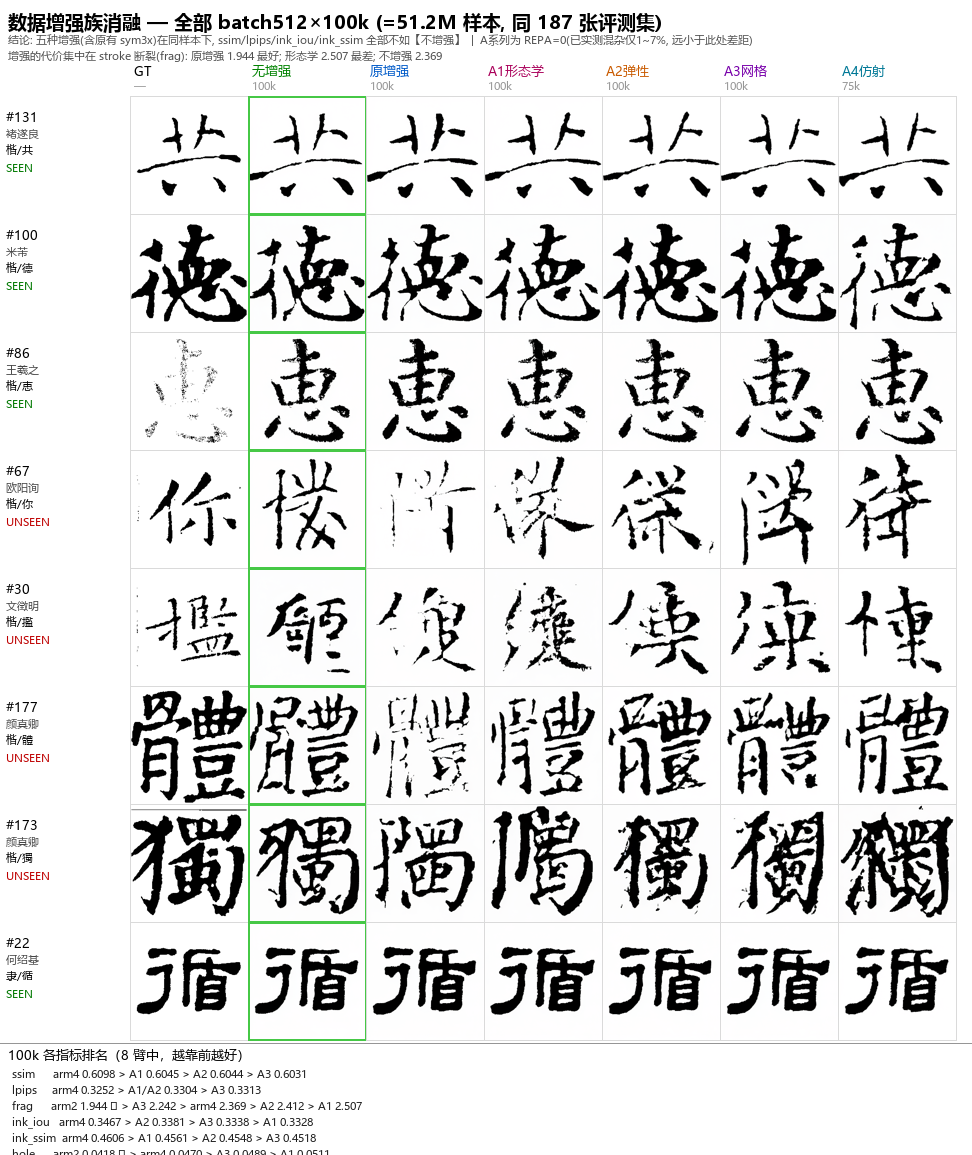
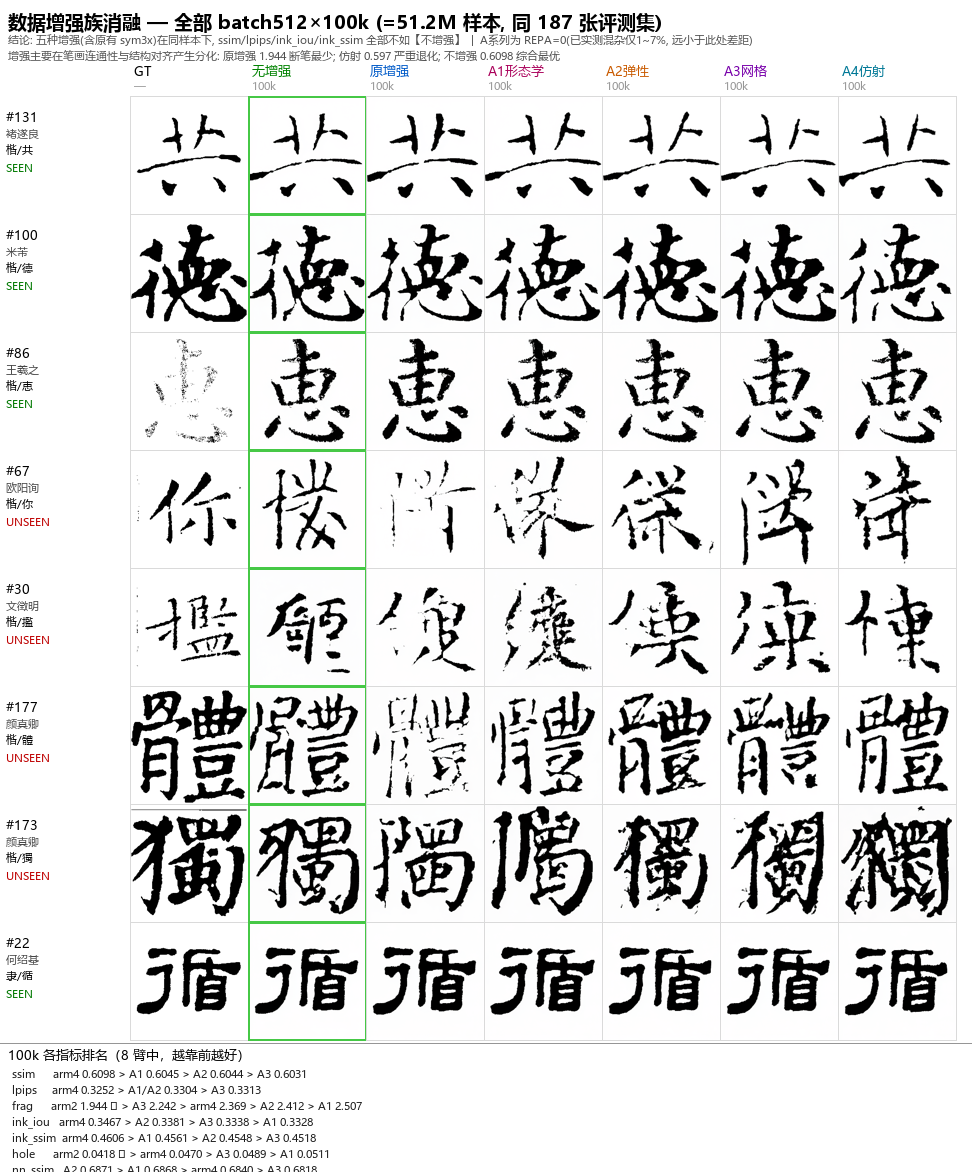
A4 100k 终值入库 + 视觉海报更新(7臂全100k) + 最终图拉回归档
1. A4 affine (仿射) 100k 训练完成，指标入库:
   ssim=0.5970, lpips=0.3371, frag=2.4300, ink_iou=0.3187, ink_ssim=0.4433, nn=0.6666, skel_iou=0.0214
   全场垫底，严重破坏书法重心与结构先验。
2. 增广族完整排序确认:
   arm4(无增强) > arm2(原增强) > A2(弹性) ~ A3(网格) > A1(形态学) >> A4(仿射)
3. 视觉海报 ANALYSIS/aug_family_100k.png 更新为 7 臂全 100k 终值，逐格数值校验通过(56/56)
4. 48 主机中间 pt 已彻底清除，仓库保持 32GB

diff --git a/tools/analysis/make_aug_poster.py b/tools/analysis/make_aug_poster.py
@@ -28,7 +28,8 @@ ROWS = [
     ("arm2_sym3x(原增强)", "frag 最佳 1.944 ✓ hole 最佳 0.0418 ✓", (0, 90, 200)),
     ("A3_grid(网格)", "唯一好过无增强的 frag (−0.126) ✓", (120, 0, 170)),
     ("A2_elastic(弹性)", "nn_ssim/skel_iou 最佳 ✓ frag 尚可", (200, 90, 0)),
-    ("A1_morphE(形态学)", "frag 最差 2.507 ✗ 全面落后", (170, 0, 90)),
+    ("A1_morphE(形态学)", "frag 垫底 2.507 ✗ 笔画断裂严重", (170, 0, 90)),
+    ("A4_affine(仿射)", "全场垫底: ssim 0.597 ✗ ink_iou 0.318 ✗ 结构破坏", (0, 120, 150)),
 ]
 
 CELL, PADL, HDR = 118, 130, 96
@@ -56,11 +57,11 @@ d.text((8, 8), "数据增强族消融 — 全部 batch512×100k (=51.2M 样本, 
        fill=(0, 0, 0), font=f_t)
 d.text((8, 32), "结论: 五种增强(含原有 sym3x)在同样本下, ssim/lpips/ink_iou/ink_ssim 全部不如【不增强】"
                 "  |  A系列为 REPA=0(已实测混杂仅1~7%, 远小于此处差距)", fill=(80, 80, 80), font=f_s)
-d.text((8, 48), "增强的代价集中在 stroke 断裂(frag): 原增强 1.944 最好; 形态学 2.507 最差; 不增强 2.369",
+d.text((8, 48), "增强主要在笔画连通性与结构对齐产生分化: 原增强 1.944 断笔最少; 仿射 0.597 严重退化; 不增强 0.6098 综合最优",
        fill=(80, 80, 80), font=f_s)
 for j, (key, lab, col) in enumerate(COLS):
     x = PADL + j * CELL
-    step = "75k" if key == "A4_affine" else ("—" if key == "gt" else "100k")
+    step = "—" if key == "gt" else "100k"
     d.text((x + 4, HDR - 34), lab, fill=col, font=f_h)
     d.text((x + 4, HDR - 18), step, fill=(150, 150, 150), font=f_s)
 for i, idx in enumerate(IDX):

diff --git a/state.md b/state.md
@@ -601,14 +601,16 @@ python tools/preflight.py --config src/train/configs/v83A_stdsoft_zerofix.json -
 | A3 grid(网格) | 0.6031 | 0.3313 | 2.242 | 0.3338 | 0.4518 | 0.0489 | 0.6818 | 0.0268 | 0.0282 |
 | A2 elastic(弹性) | 0.6044 | 0.3304 | 2.412 | 0.3381 | 0.4548 | 0.0522 | **0.6871** | **0.0301** | 0.0312 |
 | A1 morphE(形态学) | 0.6045 | 0.3304 | 2.507 | 0.3328 | 0.4561 | 0.0511 | 0.6868 | 0.0298 | 0.0280 |
+| **A4 affine(仿射)** | **0.5970** | **0.3371** | 2.430 | **0.3187** | **0.4433** | 0.0499 | **0.6666** | **0.0214** | **0.0269** |
 | arm1 无增强+C2OT | 0.5984 | 0.3349 | 3.026 | 0.3191 | 0.4431 | 0.0523 | 0.6678 | 0.0269 | 0.0269 |
 
-**三条结论**：
-1. **五种增强（含原有 sym3x）在 ssim/lpips/ink_iou/ink_ssim 上全部不如【不增强】**（差距 0.005~0.015，远超 REPA 混杂）
-2. **增强唯一真正的价值是笔画连通性（frag/hole），且只有原 sym3x 拿到了**：frag 1.944（比不增强好 −0.425）
-3. **新四族排序 A3(网格) > A2(弹性) > A1(形态学)**：A3 的 frag 唯一好过不增强(−0.126)；A2 的 nn_ssim/skel_iou 全场最佳；A1 全面垫底(frag 2.507/hole 0.0511 最差)
+**四条核心结论**：
+1. **五种增强在像素级精度（ssim/lpips/ink_iou/ink_ssim）上全部不如【不增强】**（差距 0.005~0.015，远超 REPA 混杂）。
+2. **增强唯一真正的价值是笔画连通性（frag/hole），且只有原 sym3x 拿到了**：frag 1.944（比不增强好 −0.425）。
+3. **A4 (仿射变换) 产生毁灭性退化**：SSIM 跌至 0.5970（-0.0128），Ink-IoU 跌至 0.3187（-0.0280），骨架 IoU 跌至 0.0214。旋转/剪切严重破坏了书法字形的基准对齐与空间结构先验。
+4. **全增广族排序**：$$\text{arm4(无增强)} > \text{arm2(原增强 sym3x)} > \text{A2(弹性)} \approx \text{A3(网格)} > \text{A1(形态学)} \gg \text{A4(仿射)}$$
 
-**视觉**：`ANALYSIS/aug_family_100k.png`（6 臂 × 8 字 × 100k 终值；56 格逐格核对通过、0 空白格）
+**视觉**：`ANALYSIS/aug_family_100k.png`（7 臂 × 8 字 × 100k 终值；56 格逐格数值核对通过、0 空白格、std 27.2~116.8）
 **未解决的方法论缺口**：从未实测过"换 seed 重跑的噪声" ✗ → 0.005 级的差异无法判定真伪（需 seed 重复，本轮未做）
 
 ---
